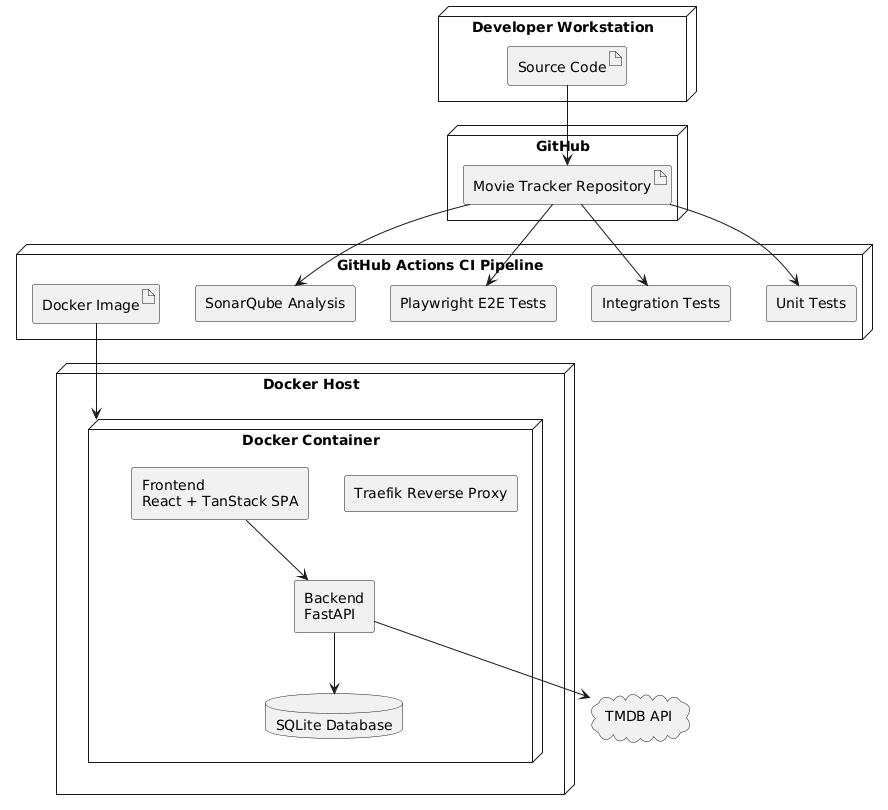
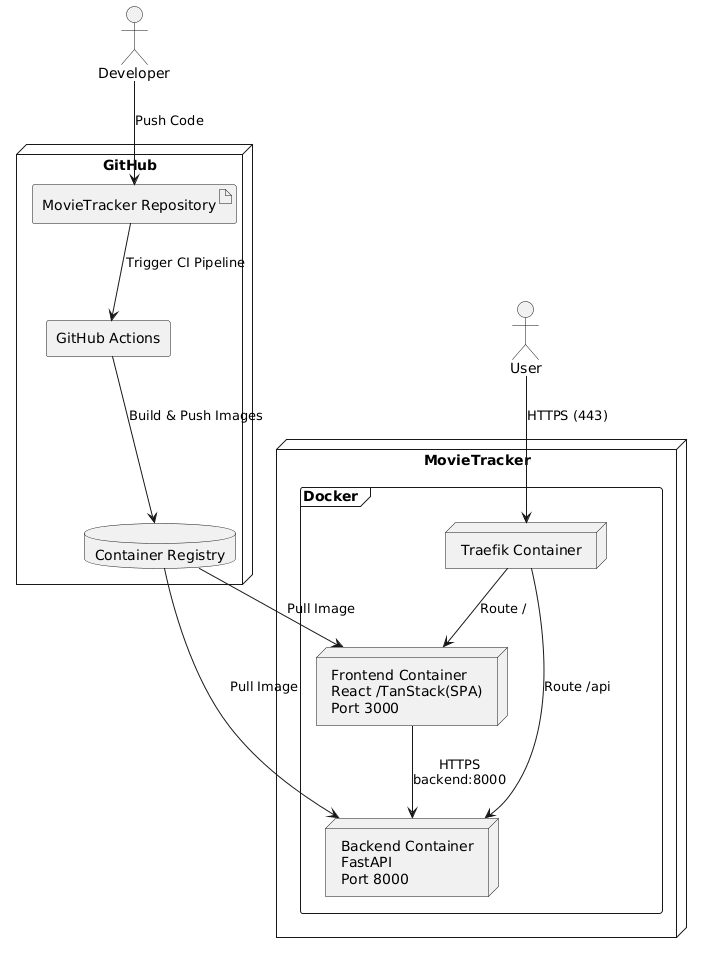
runtime and deployment view updated

diff --git a/docs/07_deployment_view.md b/docs/07_deployment_view.md
@@ -1,3 +1,68 @@
 # 7 - Deployment view
 
+## 7.1 Infrastructure overview
+
 ![deployment](diagrams/deployment_diagram.png)
+
+## 7.2 Container Architecture
+
+### 7.2.1 Docker Compose Services
+
+The docker-compose.yml defines three services : 
+
+
+| Service | Image/Build | Port | Purpose |
+|-----|----|----| ---|
+| backend | Build from  /backend/sqs-movietracker/Dockerfile | 8000 | FastAPI REST API with SQLAlchemy and SQLite|
+| frontend |  Build from /frontend/sqs-movietracker/Dockerfile | 3000 | React/TanStack |
+| traefik | traefik:v3.7.1 | 80 ,  443 , 8080 | Reverse Proxy |
+
+
+
+## 7.3 Environment Configuration 
+
+The runtime configuration is loaded from a .env file located in the project's root directory. The .env.example file serves as a template.
+
+| Variable | Required | Description |
+|----------|----------|-------------|
+| `TMDB_APIKEY` | Yes | API key or Read Access Token used to access the TMDB API. |
+| `JWT_SECRET` | Yes | Secret key used to sign JWT tokens; automatically generated by the setup script. |
+| `DATABASE_URL` | No | SQLAlchemy database URL. Defaults to `sqlite:///./test.db`. |
+| `JWT_ALGORITHM` | No | JWT signing algorithm. Defaults to `HS256`. |
+| `JWT_EXPIRY_MINUTES` | No | Token validity period in minutes. Defaults to `60` minutes. |
+
+
+## 7.4 Network Topology
+
+                            Internet / User
+
+                     ┌──────────────────────┐
+                     │       Browser        │
+                     │ Chrome / Firefox     │
+                     └──────────┬───────────┘
+                                │
+                     HTTP :80   │   HTTPS :443
+                                │
+                                ▼
+
+                     ┌──────────────────────┐
+                     │       Traefik        │
+                     │ Reverse Proxy        │
+                     │ TLS Termination      │
+                     │ Dashboard :8080      │
+                     └──────────┬───────────┘
+                                │
+             Docker Bridge Network: proxy
+                                │
+          ┌─────────────────────┴─────────────────────┐
+          │                                           │
+          ▼                                           ▼
+
+ ┌──────────────────┐                   ┌──────────────────┐
+ │     Frontend     │                   │     Backend      │
+ │ React TanStack   │                   │ FastAPI          │
+ │ Port 3000        │                   │ Port 8000        │
+ └────────┬─────────┘                   └────────┬─────────┘
+          │                                      │
+          │ API_URL=http://backend:8000          │
+          └──────────────HTTP────────────────────┘

diff --git a/docs/06_runtime_view.md b/docs/06_runtime_view.md
@@ -1,12 +1,16 @@
 # 6 - Runtime View
 
-## Add movie to a Watchlist
+## 1. Scenario:  Add movie to a Watchlist
 
 
 ![Runtime diagram](diagrams/sequence_diagram_add_movie_to_watchlist.png)
 
 
+## 2. Scenario:  Delete movie from Watchlist
 
-## View movie detail
+![Runtime diagram delete](diagrams/sequence_diagram_delete_movie_to_watchlist.png)
+
+
+## 3. Scenario:  View movie detail
 
 ![Runtime diagram movie detail](diagrams/sequence_diagram_view_movie_detail.png)
